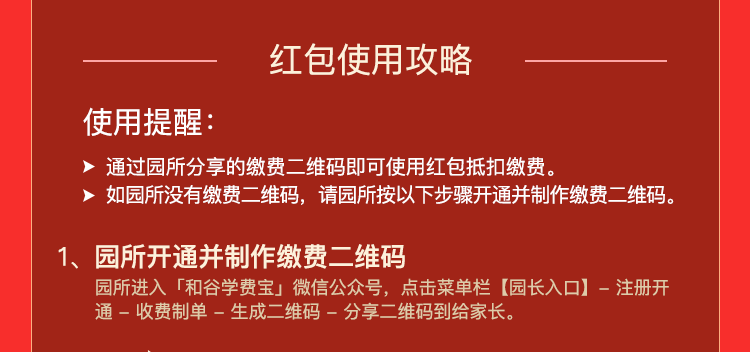
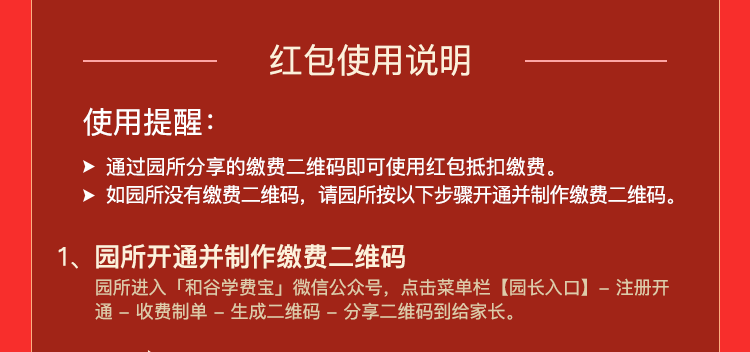
根据运营做内容修改

Changed region(s): [[0.368, 0.125, 0.644, 0.2188]]

diff --git a/src/pages/Campaign1/Patriarch.js b/src/pages/Campaign1/Patriarch.js
@@ -10,7 +10,6 @@ import wxJsTicket from '@/utils/wxJsTicket';
 import wxToken from '@/utils/wxToken';
 
 import { ReactComponent as Shared } from '@/assets/campaign1/icon/shared.svg';
-import gameRule from '@/assets/campaign1/gameRule.png';
 import sharedTip from '@/assets/campaign1/shareTip.png';
 import usedPhone from '@/assets/campaign1/used.png';
 import sharedLinkIcon from '@/assets/campaign1/sharedLinkIcon.png';
@@ -49,12 +48,14 @@ class Patriarch extends PureComponent {
       const { activityId } = query;
       wxJsTicket().then(wx => {
         const host = window.location.origin;
-        wx.onMenuShareAppMessage({
+        const share = {
           title: '分享出来就是让你戳进来领红包的',
           desc: '传递新年新财气，和谷春节送大礼',
           link: `${host}/mform/campaign1/patriarch?activityId=${activityId}`,
           imgUrl: host + sharedLinkIcon,
-        });
+        };
+        wx.onMenuShareAppMessage(share);
+        wx.onMenuShareTimeline(share);
       });
 
       wxToken().then(() => {
@@ -133,7 +134,17 @@ class Patriarch extends PureComponent {
           </Button>
         </div>
         <div className={styles.gameRule}>
-          <img src={gameRule} alt="红包规则" />
+          <div className={styles.inner}>
+            <h2>红包规则</h2>
+            <ol>
+              <li>领取成功后，请到和谷学费宝微信公众号的菜单栏中点击「我的」-【我的红包】中查看。</li>
+              <li>红包可在支付学费时使用（所在幼儿园需提前开通和谷学费宝平台)。</li>
+              <li>红包不与园所其他优惠叠加使用。</li>
+              <li>红包不能提现，不能转赠他人，不能为他人领取。</li>
+              <li>该活动最终解释权由和谷共创所有。</li>
+              <li>如有其它疑问请咨询和谷客服：<a href="tel://4008109855">400-810-9855</a></li>
+            </ol>
+          </div>
         </div>
         <Mask show={maskShareShow} marginTop="0" onHide={this.handleMaskShare}>
           <div className={common.maskShare}>

diff --git a/src/pages/Campaign1/MarkSuccess.js b/src/pages/Campaign1/MarkSuccess.js
@@ -16,6 +16,7 @@ import 'swiper/dist/css/swiper.css';
 
 import styles from './style.less';
 import common from '@/pages/Campaign1/style.less';
+import { ReactComponent as Shared } from '@/assets/campaign1/icon/shared.svg';
 
 @connect(({ campaign1, loading }) => ({
   bonusAmount: campaign1.bonusAmount,
@@ -36,14 +37,16 @@ class MarkSuccess extends PureComponent {
     const host = window.location.origin;
     wxJsTicket().then(wx => {
       const isContained = /(幼儿园|幼稚园)/.test(kgName);
-      wx.onMenuShareAppMessage({
+      const share = {
         title: kgName
           ? `${kgName}${isContained ? '' : '幼儿园'}发福利，猪年给你送豪礼`
           : '分享出来就是让你戳进来领红包的',
         desc: '传递新年新财气，和谷春节送大礼',
-        link: `${host}/mform/campaign1/patriarch?${qs.stringify({ type: 1, activityId })}`,
+        link: `${host}/mform/campaign1/patriarch?${activityId}`,
         imgUrl: host + sharedLinkIcon,
-      });
+      };
+      wx.onMenuShareAppMessage(share);
+      wx.onMenuShareTimeline(share);
     });
   }
 
@@ -78,7 +81,10 @@ class MarkSuccess extends PureComponent {
     return (
       <div className={cs(styles.container, styles.markSuccess)}>
         <div className={styles.btnArea}>
-          <Button onClick={this.handleShareClick}>分享家长领红包</Button>
+          <Button onClick={this.handleShareClick}>
+            <Shared fill="#9B1E23" className={common.iconShared} />
+            <span>分享家长领红包</span>
+          </Button>
           <WhiteSpace size="xl" />
           <Button onClick={this.handleMdmClick}>面对面撒红包</Button>
         </div>

diff --git a/src/pages/Tuition/index.js b/src/pages/Tuition/index.js
@@ -131,9 +131,7 @@ class Tuition extends PureComponent {
       };
 
       if (payType === 5) {
-        window.location.href = `https://m.hoogoo.cn/ajax/pay/pay/payment?${qs.stringify(
-          payload
-        )}`;
+        window.location.href = `https://m.hoogoo.cn/ajax/pay/pay/payment?${qs.stringify(payload)}`;
       } else {
         dispatch({
           type: 'tuition/submit',
@@ -315,11 +313,11 @@ class Tuition extends PureComponent {
       submitting,
       location: { query },
     } = this.props;
-    const { name } = summary;
+    const { name, gradeName } = summary;
 
     return (
       <div className={styles.container}>
-        <div className={styles.title}>{`${name} - ${query.className}`}</div>
+        <div className={styles.title}>{`${name + gradeName} - ${query.className}`}</div>
         <WhiteSpace size="lg" />
         学生信息
         <WhiteSpace size="lg" />
@@ -384,7 +382,9 @@ class Tuition extends PureComponent {
             <div>使用优惠券</div>
             <div>
               {bonusId === -1 && bonus.length === 0 && <span>暂无可用优惠券</span>}
-              {bonusId === -1 && bonus.length > 0 && <span style={{ color: '#eb5d35' }}>{bonus.length} 张优惠券可使用</span>}
+              {bonusId === -1 && bonus.length > 0 && (
+                <span style={{ color: '#eb5d35' }}>{bonus.length} 张优惠券可使用</span>
+              )}
               {bonusId !== -1 && <span style={{ color: '#eb5d35' }}>{bonusName}</span>}
               <Icon type="right" />
             </div>

diff --git a/src/pages/Campaign1/BonusSwip.js b/src/pages/Campaign1/BonusSwip.js
@@ -1,8 +1,10 @@
 import React, { PureComponent } from 'react';
 import PropTypes from 'prop-types';
 import cs from 'classnames';
-import 'swiper/dist/css/swiper.css';
+import router from 'umi/router';
+import {getPageQuery} from '@/utils/utils';
 
+import 'swiper/dist/css/swiper.css';
 import styles from './GotBonus.less';
 
 export default class BonusSwip extends PureComponent {
@@ -25,13 +27,18 @@ export default class BonusSwip extends PureComponent {
 
   swipper = null;
 
+  handleDLClick = () => {
+    const {activityId, code} = getPageQuery();
+    router.push(`bonus?activityId=${activityId}&code=${code}`);
+  };
+
   render() {
     const { data } = this.props;
     return (
       <div className={cs(styles.bonus, 'swiper-container')} ref={this.el}>
         <div className="swiper-wrapper">
           {data.map(item => (
-            <dl className="swiper-slide" key={item.userCouponId}>
+            <dl className="swiper-slide" key={item.userCouponId} onClick={this.handleDLClick}>
               <dt>{item.useScope}期可用</dt>
               <dd>
                 {item.couponAmount}

diff --git a/src/pages/Campaign1/GotBonus.js b/src/pages/Campaign1/GotBonus.js
@@ -62,12 +62,14 @@ class GotBonus extends PureComponent {
       });
       wxJsTicket().then(wx => {
         const host = window.location.origin;
-        wx.onMenuShareAppMessage({
+        const share = {
           title: '分享出来就是让你戳进来领红包的',
           desc: '传递新年新财气，和谷春节送大礼',
           link: `${host}/mform/campaign1/patriarch?activityId=${activityId}`,
           imgUrl: host + sharedLinkIcon,
-        });
+        };
+        wx.onMenuShareAppMessage(share);
+        wx.onMenuShareTimeline(share);
       });
     } else {
       Toast.info('请指定一个优惠活动');
@@ -129,7 +131,7 @@ class GotBonus extends PureComponent {
       <div className={cs(styles.container)}>
         <div className={styles.amount}>{bonusAmount}</div>
         <Link className={styles.link} to={`guide-for-ph?${qs.stringify({ activityId })}`}>
-          *使用红包攻略 GO&gt;
+          *使用红包说明
         </Link>
         <BonusSwipe data={bonusList} />
         <div className={styles.guide}>

diff --git a/src/pages/Campaign1/GuideForPH.js b/src/pages/Campaign1/GuideForPH.js
@@ -2,8 +2,6 @@ import React, { PureComponent } from 'react';
 import { connect } from 'dva';
 import cs from 'classnames';
 import { Button } from 'antd-mobile';
-import qs from 'qs';
-import LazyLoad from 'react-lazy-load';
 import Mask from '@/components/Mask';
 import Loading from '@/components/PageLoading';
 import wxJsTicket from '@/utils/wxJsTicket';
@@ -39,12 +37,14 @@ class GuideForPH extends PureComponent {
       } = this.props;
       const { activityId } = query;
       const host = window.location.origin;
-      wx.onMenuShareAppMessage({
+      const share = {
         title: '入驻和谷学费宝，你招生我送钱',
         desc: '稳固生源，资金安全，对账简单，园所升级不再难。',
-        link: `${host}/mform/campaign1/guide-for-kg?${qs.stringify({ type: 2, activityId })}`,
+        link: `${host}/mform/campaign1/guide-for-kg?activityId=${activityId}`,
         imgUrl: host + sharedLinkIconKg,
-      });
+      };
+      wx.onMenuShareAppMessage(share);
+      wx.onMenuShareTimeline(share);
     });
   }
 

diff --git a/config/router.config.js b/config/router.config.js
@@ -18,8 +18,8 @@ export default [
           { path: 'mark', name: '和谷猪年送豪礼', component: './Campaign1/Mark' },
           { path: 'markSuccess', name: '和谷猪年送豪礼', component: './Campaign1/MarkSuccess' },
           { path: 'progress', name: '进度查询', component: './Campaign1/Progress' },
-          { path: 'guide-for-kg', name: '使用红包攻略', component: './Campaign1/GuideForKG' },
-          { path: 'guide-for-ph', name: '使用红包攻略', component: './Campaign1/GuideForPH' },
+          { path: 'guide-for-kg', name: '使用红包说明', component: './Campaign1/GuideForKG' },
+          { path: 'guide-for-ph', name: '使用红包说明', component: './Campaign1/GuideForPH' },
         ],
       },
       {

diff --git a/src/pages/Campaign1/GuideForKG.js b/src/pages/Campaign1/GuideForKG.js
@@ -40,12 +40,14 @@ class GuideForKG extends PureComponent {
       } = this.props;
       const { activityId } = query;
       const host = window.location.origin;
-      wx.onMenuShareAppMessage({
+      const share = {
         title: '分享出来就是让你戳进来领红包的',
         desc: '传递新年新财气，和谷春节送大礼',
-        link: `${host}/mform/campaign1/patriarch?${qs.stringify({ type: 1, activityId })}`,
+        link: `${host}/mform/campaign1/patriarch?activityId=${activityId}`,
         imgUrl: host + sharedLinkIcon,
-      });
+      };
+      wx.onMenuShareAppMessage(share);
+      wx.onMenuShareTimeline(share);
     });
   }
 

diff --git a/src/pages/Campaign1/style.less b/src/pages/Campaign1/style.less
@@ -98,9 +98,34 @@ img.iconReg {
 
 .gameRule {
   margin: 20px 0 30px;
-  img {
-    width: 100%;
-    pointer-events: none;
+  padding: 6px;
+  //background: url(../../assets/campaign1/gameRule.png) no-repeat;
+  background-color: #d2201e;
+  border-radius: 5px;
+  color: #f8d2a1;
+  font-size: 10px;
+
+  .inner {
+    padding: 10px 15px;
+    background-color: #dc2a28;
+    border: 1px dashed #fd7003;
+    border-radius: 5px;
+
+    h2 {
+      font-size: 15px;
+      color: #fcedcd;
+    }
+
+    ol {
+      margin: 0;
+      padding-left: 0;
+      list-style: decimal inside;
+      line-height: 22px;
+    }
+
+    a {
+      color: #f8d2a1;
+    }
   }
 }
 

diff --git a/src/models/tuition.js b/src/models/tuition.js
@@ -110,11 +110,11 @@ export default {
 
   reducers: {
     detailComplete(state, action) {
-      const { data, types } = action.payload;
+      const { data, types, gradeName } = action.payload;
       const { name } = data;
       types.sort((a, b) => b.type - a.type);
 
-      return { ...state, summary: { name }, staging: [...types] };
+      return { ...state, summary: { name, gradeName }, staging: [...types] };
     },
     studentComplete(state, action) {
       const { data } = action.payload;

diff --git a/src/pages/Campaign1/Mark.js b/src/pages/Campaign1/Mark.js
@@ -194,7 +194,7 @@ class Mark extends PureComponent {
         <WhiteSpace />
         <div className={styles.btnArea}>
           <Button onClick={this.validate} loading={submitLoading} disabled={submitLoading}>
-            <span>立即标记</span>
+            <span>立即定制</span>
           </Button>
         </div>
         <WhiteSpace size="xl" />
